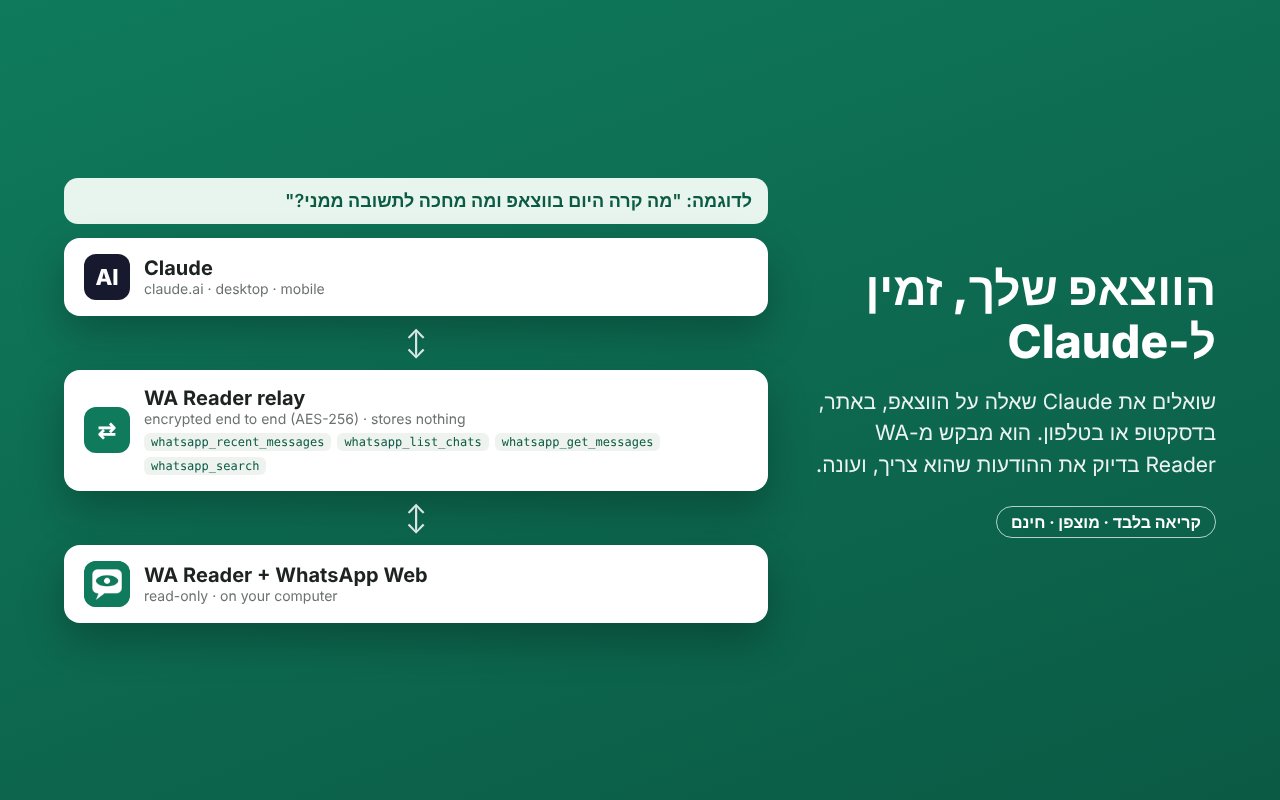
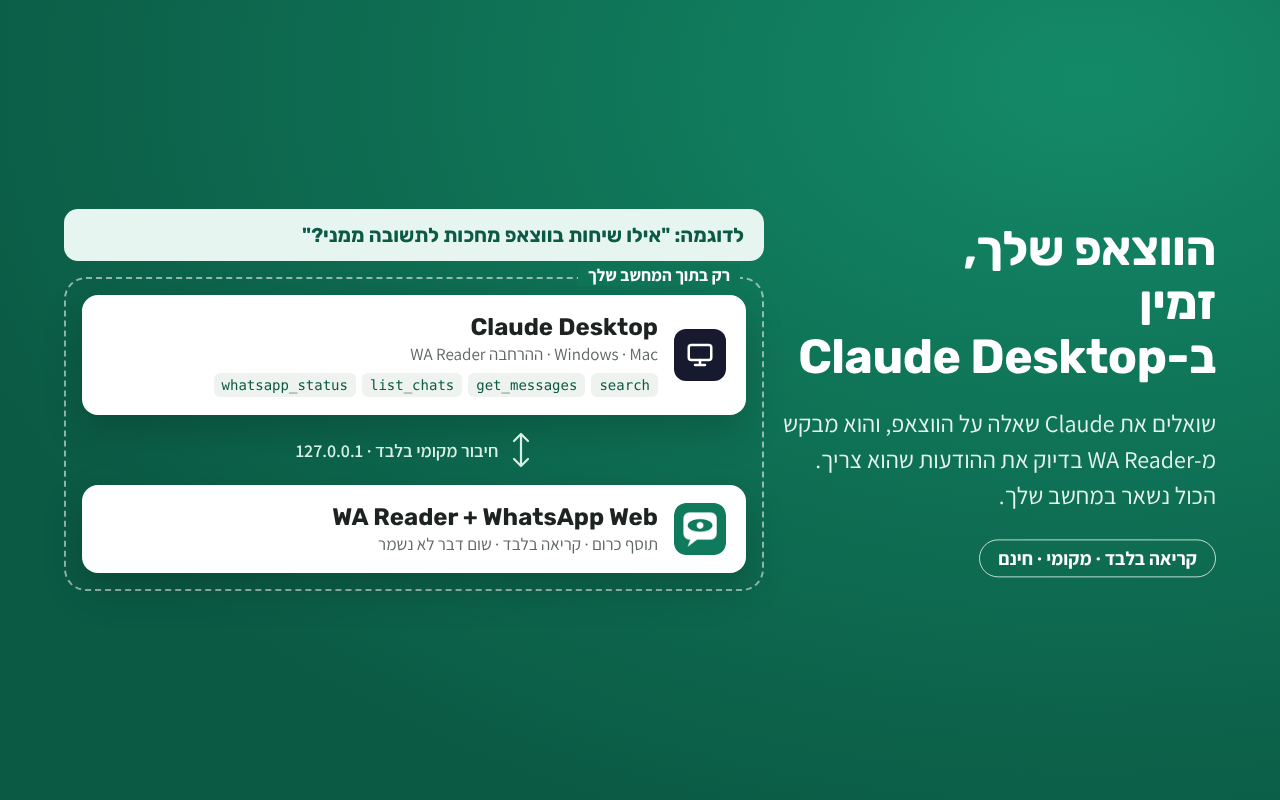
Store screenshots and promo tile for 2.3.0 (local-only, Claude Desktop)
Claude-Session: https://claude.ai/code/session_016vGyVCBwV8QpW6qFjkwBgN

Changed region(s): [[0.0312, 0.2188, 0.9688, 0.7812], [0.7812, 0.0312, 0.9688, 0.25], [0.0, 0.0, 0.0625, 0.1562]]

diff --git a/store/LISTING.md b/store/LISTING.md
@@ -71,7 +71,7 @@ Works only with Claude Desktop (Windows and Mac). It does not work with claude.a
 Built by Eitan | Organizational Digitization (digital.m-eitan.co.il). WA Reader is an independent project, not affiliated with WhatsApp, Meta or Anthropic.
 ```
 
-**התמונות:** `store/icon-128.png`, `store/screenshot-*.png`, `store/promo-tile-440x280.png` (צריך לעדכן צילומי מסך שמראים את החיבור הענני)
+**התמונות:** `store/icon-128.png`, `store/screenshot-*.png`, `store/promo-tile-440x280.png` (1280×800, עודכנו ל-2.3.0: איך זה עובד, התקנה בשני צעדים, פרטיות)
 **Homepage URL:** `https://github.com/kobibest/wa-reader`
 **Support URL:** `https://github.com/kobibest/wa-reader/issues`
 
